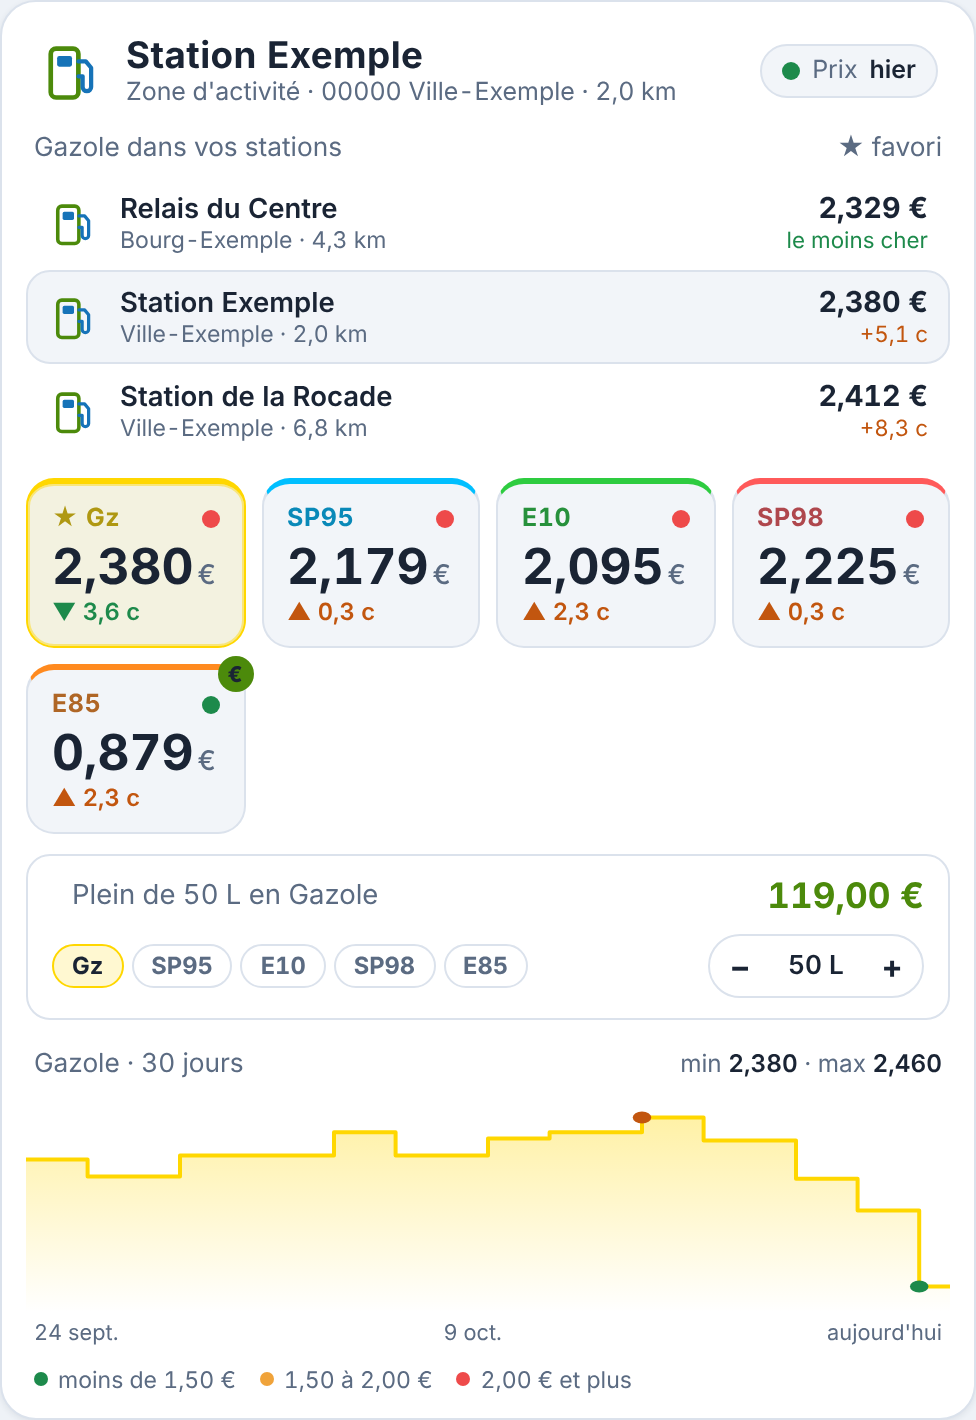
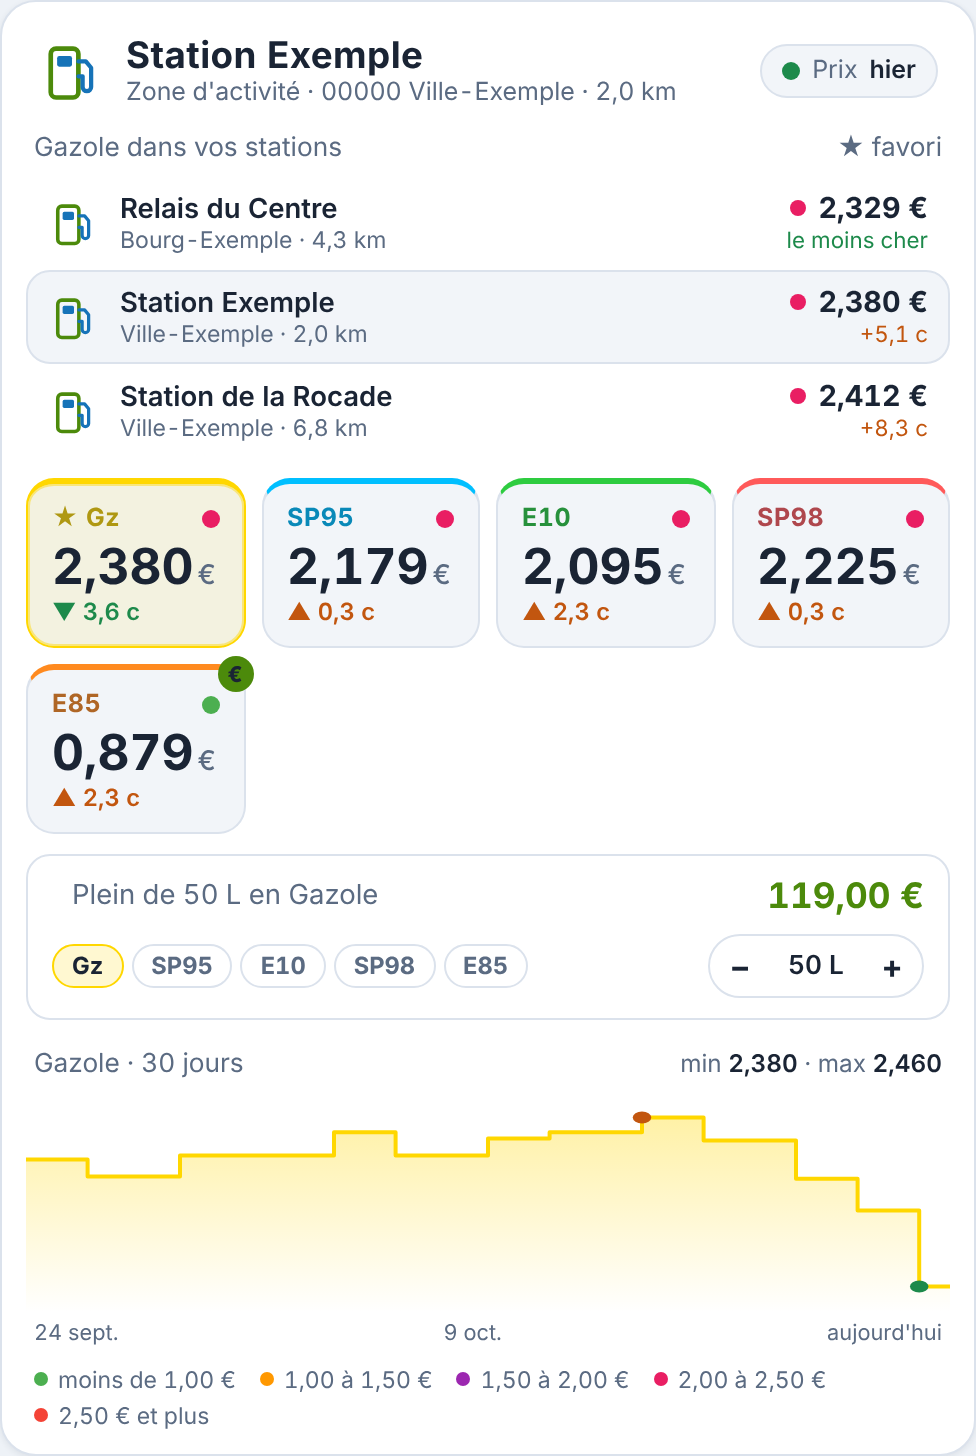
feat: cinq tranches de couleur pour les prix (0.3.0)
Vert sous 1,00 €, orange de 1,00 à 1,50 €, violet de 1,50 à 2,00 €,
magenta de 2,00 à 2,50 €, rouge à partir de 2,50 €. Les pastilles, le
comparatif, la légende et les lignes de la courbe suivent ces tranches,
réglables avec levels: (max et couleur). Remplace threshold_orange et
threshold_red.

Claude-Session: https://claude.ai/code/session_01SRKBBjDQfQhyTgJMcHgPqQ

diff --git a/prix-carburant-card.js b/prix-carburant-card.js
@@ -11,7 +11,7 @@
  */
 
 (() => {
-const CARD_VERSION = "0.2.0";
+const CARD_VERSION = "0.3.0";
 
 /* ------------------------------------------------------------- affichage */
 
@@ -65,14 +65,32 @@ const FUEL_DEFAULTS = {
   stations: [],
   fuels: [],
   favorite: "",
-  threshold_orange: 1.5,
-  threshold_red: 2.0,
+  levels: null,
   tank: 50,
   tank_fuel: "",
   days: 30,
   show_chart: true,
   show_tank: true,
   theme: "v2",
+};
+
+/** Tranches de prix (€/L) : couleur jusqu'au prix « max » exclu ; au-delà de la dernière, sa couleur reste. */
+const DEFAULT_LEVELS = [
+  { max: 1.0, color: "#4CAF50", name: "Vert" },
+  { max: 1.5, color: "#FF9800", name: "Orange" },
+  { max: 2.0, color: "#9C27B0", name: "Violet" },
+  { max: 2.5, color: "#E91E63", name: "Magenta" },
+  { max: 3.0, color: "#F44336", name: "Rouge" },
+];
+
+/** Tranches de la configuration (levels:), triées ; les tranches par défaut sinon. */
+const levelsOf = (c) => {
+  const list = (Array.isArray(c.levels) ? c.levels : [])
+    .map((l) => ({ max: Number(l?.max), color: String(l?.color || "").trim(), name: l?.name || "" }))
+    .filter((l) => Number.isFinite(l.max) && /^#?[0-9a-f]{3,8}$|^[a-z]+$/i.test(l.color))
+    .map((l) => ({ ...l, color: /^[0-9a-f]{3,8}$/i.test(l.color) ? `#${l.color}` : l.color }))
+    .sort((a, b) => a.max - b.max);
+  return list.length ? list : DEFAULT_LEVELS;
 };
 
 /** Carburants dans l'ordre d'affichage. key : valeur de l'attribut fuel_type (en minuscules). */
@@ -201,12 +219,11 @@ class PrixCarburantCard extends HTMLElement {
     return Number.isFinite(n) && n > 0 ? n : null;
   }
 
-  _level(p) {
-    const c = this._config;
-    if (p === null) return "none";
-    if (p >= Number(c.threshold_red)) return "red";
-    if (p >= Number(c.threshold_orange)) return "orange";
-    return "green";
+  /** Couleur de la tranche d'un prix (null sans prix). */
+  _levelColor(p) {
+    if (p === null) return null;
+    const lv = levelsOf(this._config);
+    return (lv.find((l) => p < l.max) || lv[lv.length - 1]).color;
   }
 
   /** Historique des prix (API history/period), rechargé toutes les 30 minutes. */
@@ -274,11 +291,11 @@ class PrixCarburantCard extends HTMLElement {
     const area = `${d}V${H}H0Z`;
     const iMin = vals.indexOf(min);
     const iMax = vals.lastIndexOf(max);
-    const lines = [
-      [Number(this._config.threshold_orange), "orange"],
-      [Number(this._config.threshold_red), "red"],
-    ].filter(([v]) => v > lo && v < hi)
-      .map(([v, k]) => `<line class="th th-${k}" x1="0" x2="${W}" y1="${y(v).toFixed(1)}" y2="${y(v).toFixed(1)}"/>`).join("");
+    // limite basse de chaque tranche (sa couleur), quand elle tombe dans l'échelle de la courbe
+    const lv = levelsOf(this._config);
+    const lines = lv.slice(0, -1).map((l, i) => [l.max, lv[i + 1].color])
+      .filter(([v]) => v > lo && v < hi)
+      .map(([v, col]) => `<line class="th" stroke="${esc(col)}" x1="0" x2="${W}" y1="${y(v).toFixed(1)}" y2="${y(v).toFixed(1)}"/>`).join("");
     return `<div class="chart" data-entity="${esc(id)}">${head}<span class="legend">min <b>${fmt(min, 3)}</b> · max <b>${fmt(max, 3)}</b></span></div>
       <svg viewBox="0 0 ${W} ${H}" preserveAspectRatio="none" aria-label="Évolution du prix ${esc(fuel.label)}">
         <defs><linearGradient id="g" x1="0" x2="0" y1="0" y2="1"><stop offset="0" stop-color="${fuel.color}" stop-opacity=".35"/><stop offset="1" stop-color="${fuel.color}" stop-opacity="0"/></linearGradient></defs>
@@ -349,7 +366,8 @@ class PrixCarburantCard extends HTMLElement {
         list.map(({ s, r }) => {
           const at = s.rows[0]?.st?.attributes || {};
           const short = r?.st?.attributes?.shortage_since;
-          const val = !r ? `<span class="c-na">non vendu</span>` : short ? `<span class="c-na">rupture</span>` : r.price === null ? "—" : `<b>${fmt(r.price, 3)} €</b>`;
+          const col = okPrice(r) ? this._levelColor(r.price) : null;
+          const val = !r ? `<span class="c-na">non vendu</span>` : short ? `<span class="c-na">rupture</span>` : r.price === null ? "—" : `<b>${col ? `<i class="dot" style="background:${esc(col)}"></i>` : ""}${fmt(r.price, 3)} €</b>`;
           const gap = okPrice(r) && best !== null && r.price - best > 0.0005 ? `<small>+${fmt((r.price - best) * 100, 1)} c</small>` : okPrice(r) && prices.length > 1 ? `<small class="c-best">le moins cher</small>` : "";
           return `<button class="c-row${s === cur ? " on" : ""}" data-station="${esc(s.id)}" style="--fc:${fuel.color}">${logoOf(at, "c-logo")}` +
             `<span class="c-n">${esc(at.name || s.name || s.id)}<em>${esc([at.city, at.distance !== undefined && at.distance !== null ? `${fmt(at.distance, 1)} km` : ""].filter(Boolean).join(" · "))}</em></span>` +
@@ -359,14 +377,14 @@ class PrixCarburantCard extends HTMLElement {
 
     const tiles = rows.map((r) => {
       const short = r.st.attributes.shortage_since;
-      const lvl = short ? "none" : this._level(r.price);
+      const col = short ? null : this._levelColor(r.price);
       const prev = this._previous(r.id, r.price);
       const diff = prev ? r.price - prev.v : null;
       const evo = diff === null
         ? ""
         : `<div class="evo ${diff > 0 ? "up" : "down"}" title="Avant : ${fmt(prev.v, 3)} € (${esc(new Date(prev.t).toLocaleString("fr-FR"))})">${diff > 0 ? "▲" : "▼"} ${fmt(Math.abs(diff) * 100, 1)} c</div>`;
-      return `<button class="fuel lv-${lvl}${r === sel ? " on" : ""}${r.fuel.key === fav ? " fav" : ""}" data-pick="${esc(r.fuel.key)}" style="--fc:${r.fuel.color}">
-          <div class="f-h"><span class="f-tag">${r.fuel.key === fav ? "★ " : ""}${esc(r.fuel.short)}</span><span class="dot"></span></div>
+      return `<button class="fuel${r === sel ? " on" : ""}${r.fuel.key === fav ? " fav" : ""}" data-pick="${esc(r.fuel.key)}" style="--fc:${r.fuel.color}">
+          <div class="f-h"><span class="f-tag">${r.fuel.key === fav ? "★ " : ""}${esc(r.fuel.short)}</span><span class="dot"${col ? ` style="background:${esc(col)}"` : ""}></span></div>
           <div class="f-v">${short ? `<em>Rupture</em>` : r.price !== null ? `${fmt(r.price, 3)}<span>€</span>` : "—"}</div>
           <div class="f-n">${short ? `depuis ${dayMonth(new Date(short).getTime())}` : evo || `<span>${esc(r.fuel.label)}</span>`}</div>
           ${r === cheapest && avail.length > 1 ? `<b class="best" title="Le moins cher de la station">€</b>` : ""}
@@ -388,7 +406,11 @@ class PrixCarburantCard extends HTMLElement {
         </div>`;
     }
 
-    const legend = `<div class="seuils"><span><i class="dot lv-green"></i>moins de ${fmt(c.threshold_orange, 2)} €</span><span><i class="dot lv-orange"></i>${fmt(c.threshold_orange, 2)} à ${fmt(c.threshold_red, 2)} €</span><span><i class="dot lv-red"></i>${fmt(c.threshold_red, 2)} € et plus</span></div>`;
+    const lv = levelsOf(c);
+    const legend = `<div class="seuils">${lv.map((l, i) => {
+      const txt = i === 0 ? `moins de ${fmt(l.max, 2)} €` : i === lv.length - 1 ? `${fmt(lv[i - 1].max, 2)} € et plus` : `${fmt(lv[i - 1].max, 2)} à ${fmt(l.max, 2)} €`;
+      return `<span><i class="dot" style="background:${esc(l.color)}"></i>${txt}</span>`;
+    }).join("")}</div>`;
 
     card(`${header}
       ${compare}
@@ -419,10 +441,7 @@ ha-card.light .f-tag { color: color-mix(in srgb, var(--fc) 65%, #1a2434); }
 .f-v span { font-size: .85rem; font-weight: 500; color: var(--med-muted); margin-left: 2px; }
 .f-v em { font-style: normal; font-size: 1.05rem; color: var(--t-red); }
 .f-n { font-size: .74rem; color: var(--med-muted); min-height: 1.1em; }
-.lv-green .dot, .dot.lv-green { background: var(--med-down); }
-.lv-orange .dot, .dot.lv-orange { background: #f0a33a; }
-.lv-red .dot, .dot.lv-red { background: var(--t-red); }
-.lv-none .dot { background: var(--med-muted); }
+.c-v .dot { width: 8px; height: 8px; margin-right: 6px; vertical-align: 1px; }
 .evo { font-size: .74rem; font-weight: 600; }
 .evo.up { color: var(--med-up); } .evo.down { color: var(--med-down); }
 .best { position: absolute; top: -7px; right: -5px; width: 18px; height: 18px; border-radius: 50%; display: grid; place-items: center;
@@ -460,8 +479,7 @@ svg.c-logo { background: none; padding: 0; fill: none; }
 .chart .legend b { color: var(--med-text); font-weight: 600; }
 .chart svg { height: 110px; }
 .chart .line { fill: none; stroke-width: 2; vector-effect: non-scaling-stroke; stroke-linejoin: round; }
-.chart .th { stroke-width: 1; stroke-dasharray: 3 3; vector-effect: non-scaling-stroke; }
-.chart .th-orange { stroke: #f0a33a; opacity: .7; } .chart .th-red { stroke: var(--t-red); opacity: .7; }
+.chart .th { stroke-width: 1; stroke-dasharray: 3 3; vector-effect: non-scaling-stroke; opacity: .75; }
 .chart .pt-min { fill: var(--med-down); } .chart .pt-max { fill: var(--med-up); }
 .ch-x { display: flex; justify-content: space-between; font-size: .68rem; color: var(--med-muted); margin: 3px 4px 0; }
 .ch-empty { margin: 0 4px; padding: 18px 0; text-align: center; font-size: .8rem; color: var(--med-muted); border: 1px dashed var(--med-line); border-radius: 12px; }
@@ -544,8 +562,7 @@ const FUEL_SCHEMA = (hass) => {
     { name: "title", selector: { text: {} } },
     { name: "favorite", selector: { select: { mode: "dropdown", options: [{ value: "", label: "Aucun" }, ...fuelOpts] } } },
     { name: "fuels", selector: { select: { multiple: true, mode: "list", options: fuelOpts } } },
-    { name: "threshold_orange", selector: { number: { min: 0, max: 5, step: 0.01, mode: "box", unit_of_measurement: "€/L" } } },
-    { name: "threshold_red", selector: { number: { min: 0, max: 5, step: 0.01, mode: "box", unit_of_measurement: "€/L" } } },
+    { name: "levels", selector: { object: {} } },
     { name: "show_tank", selector: { boolean: {} } },
     { name: "tank", selector: { number: { min: 5, max: 200, step: 1, mode: "box", unit_of_measurement: "L" } } },
     { name: "tank_fuel", selector: { select: { mode: "dropdown", options: [{ value: "", label: "Le favori (ou le carburant affiché)" }, ...fuelOpts] } } },
@@ -559,8 +576,7 @@ const FUEL_LABELS = {
   favorite: "Carburant favori (en tête, comparé entre les stations)",
   title: "Titre (nom de la station par défaut)",
   fuels: "Carburants affichés (tous si aucun n'est coché)",
-  threshold_orange: "Orange à partir de",
-  threshold_red: "Rouge à partir de",
+  levels: "Tranches de couleur (vide = vert, orange, violet, magenta, rouge ; voir le README)",
   show_tank: "Afficher le coût d'un plein",
   tank: "Réservoir par défaut (modifiable dans la carte)",
   tank_fuel: "Carburant du plein par défaut (modifiable dans la carte)",

diff --git a/README.md b/README.md
@@ -1,6 +1,6 @@
 # Carte Prix Carburant
 
-Carte Lovelace pour Home Assistant qui affiche les **prix de vos stations-service** : un comparatif de vos stations sur votre carburant favori, un prix par carburant avec une couleur selon vos seuils, l'évolution depuis le dernier changement, l'historique des 30 derniers jours, le coût d'un plein réglable et les ruptures de stock.
+Carte Lovelace pour Home Assistant qui affiche les **prix de vos stations-service** : un comparatif de vos stations sur votre carburant favori, un prix par carburant avec une couleur selon sa tranche de prix, l'évolution depuis le dernier changement, l'historique des 30 derniers jours, le coût d'un plein réglable et les ruptures de stock.
 
 Elle est conçue pour l'intégration **[Prix Carburant](https://github.com/Aohzan/hass-prixcarburant)** (données officielles prix-carburants.gouv.fr) et trouve vos stations toute seule, quelle que soit l'enseigne. Pour une autre source, les capteurs peuvent être choisis à la main.
 
@@ -20,13 +20,13 @@ Elle a le même style que la [Carte Enedis Linky New](https://github.com/Marlbor
 - **Comparatif de vos stations** (dès 2 stations) : le prix de votre **carburant favori** dans chaque station, de la moins chère à la plus chère, avec l'écart en centimes (« non vendu » ou « rupture » si besoin). Touchez une station pour afficher ses prix.
 - **Une tuile par carburant** (Gazole, SP95, SP95-E10, SP98, E85, GPLc) :
   - le prix au millième, avec la couleur habituelle du carburant ;
-  - une **pastille de couleur** selon vos seuils : 🟢 sous 1,50 €, 🟠 de 1,50 à 2 €, 🔴 à partir de 2 € (réglables) ;
+  - une **pastille de couleur** selon la tranche de prix (réglable, voir [Tranches de couleur](#tranches-de-couleur)) ;
   - l'**écart avec le prix précédent**, en centimes (▲ hausse, ▼ baisse) ;
   - **« Rupture depuis… »** quand la station est en rupture de stock ;
   - une étoile **★** sur votre carburant favori, toujours en tête ;
   - un badge **€** sur le carburant le moins cher de la station.
 - **Coût d'un plein** : choisissez le **carburant du plein** et la **capacité du réservoir** (− / +, par 5 L) directement dans la carte. Ces deux choix sont retenus sur l'appareil.
-- **Évolution du prix** sur 30 jours du carburant choisi (touchez une tuile), avec le minimum, le maximum et les lignes de vos seuils.
+- **Évolution du prix** sur 30 jours du carburant choisi (touchez une tuile), avec le minimum, le maximum et les limites des tranches de couleur.
 
 Un appui sur la pastille, le plein ou la courbe ouvre la fiche du capteur.
 
@@ -64,8 +64,7 @@ Pour comparer d'autres stations, ajoutez-les dans l'intégration (**Paramètres 
 | `title` | Titre de la carte (avec une seule station) | nom de la station |
 | `favorite` | Carburant favori : en tête, marqué ★, comparé entre les stations | — |
 | `fuels` | Carburants affichés, dans l'ordre : `gazole`, `sp95`, `e10`, `sp98`, `e85`, `gplc` | tous |
-| `threshold_orange` | Prix (€/L) à partir duquel la pastille passe à l'orange | `1.5` |
-| `threshold_red` | Prix (€/L) à partir duquel la pastille passe au rouge | `2.0` |
+| `levels` | Tranches de couleur des prix (voir ci-dessous) | 5 tranches |
 | `show_tank` | Afficher le coût d'un plein | `true` |
 | `tank` | Capacité du réservoir par défaut, en litres (modifiable dans la carte) | `50` |
 | `tank_fuel` | Carburant du plein par défaut (modifiable dans la carte) | le favori |
@@ -75,6 +74,29 @@ Pour comparer d'autres stations, ajoutez-les dans l'intégration (**Paramètres 
 | `entities` | Capteurs choisis à la main (voir ci-dessous) | — |
 
 Un exemple complet est dans [`exemples/carte-carburant.yaml`](exemples/carte-carburant.yaml).
+
+### Tranches de couleur
+
+La pastille de chaque prix, le comparatif et les lignes de la courbe prennent la couleur de la tranche du prix :
+
+| Tranche | Couleur | Code hex |
+| --- | --- | --- |
+| moins de 1,00 € | 🟢 Vert | `#4CAF50` |
+| 1,00 à 1,50 € | 🟠 Orange | `#FF9800` |
+| 1,50 à 2,00 € | 🟣 Violet | `#9C27B0` |
+| 2,00 à 2,50 € | 🩷 Magenta | `#E91E63` |
+| 2,50 € et plus | 🔴 Rouge | `#F44336` |
+
+Pour les changer, donnez vos tranches dans `levels:`. Chacune s'applique jusqu'à son prix `max`, exclu ; au-delà de la dernière, sa couleur reste.
+
+```yaml
+levels:
+  - { max: 1.0, color: "#4CAF50" }
+  - { max: 1.5, color: "#FF9800" }
+  - { max: 2.0, color: "#9C27B0" }
+  - { max: 2.5, color: "#E91E63" }
+  - { max: 3.0, color: "#F44336" }
+```
 
 ### Capteurs choisis à la main
 
